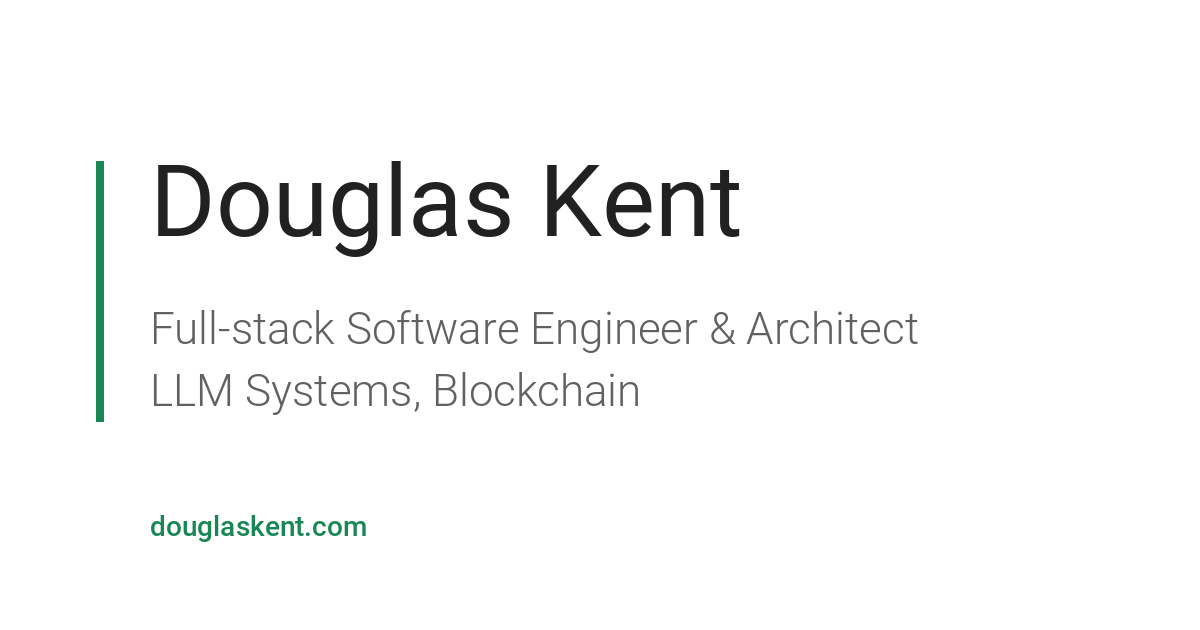
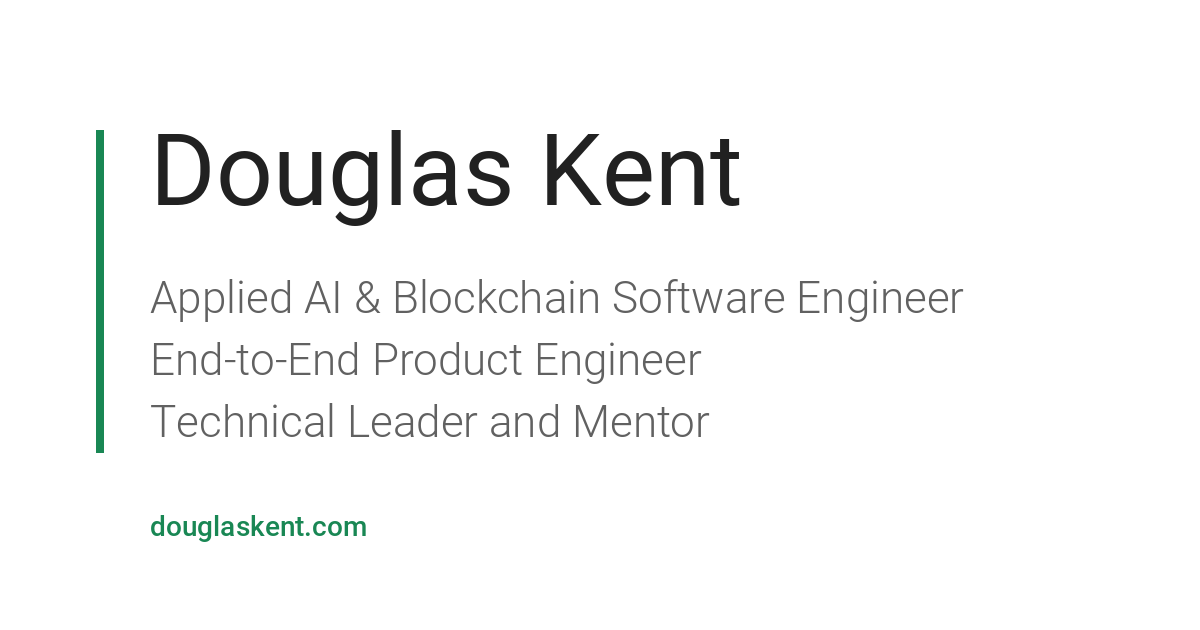
Redraw the link-preview image with the new headline; keep its script
public/og-preview.png now shows the name and all three label phrases,
drawn with the same Pillow script and design as the original card. The
script is kept as og-preview.py, so the card can be redrawn when
basics.name or basics.label changes instead of going stale. It runs by
hand and is not part of the build; its fonts/ folder is gitignored.

diff --git a/og-preview.py b/og-preview.py
@@ -1,0 +1,46 @@
+"""Draws public/og-preview.png, the link-preview image named by basics.image in resume.json.
+
+Run by hand, only when basics.name or basics.label changes: `python og-preview.py`. It is not
+part of the build. The card it replaced went stale because the script that drew it lived only
+in a chat; this one lives with the image.
+
+LABEL_LINES must be updated by hand to match basics.label: one phrase per line, without the
+" · " separators.
+
+Needs Python 3 with Pillow, and the Roboto Light, Regular and Medium TTFs from
+https://raw.githubusercontent.com/googlefonts/roboto-2/main/src/hinted/Roboto-<Weight>.ttf
+placed in a fonts/ folder next to this script (gitignored).
+
+The image must stay 1200 x 630, to match IMAGE_WIDTH and IMAGE_HEIGHT in resume-head-plugin.ts.
+"""
+from pathlib import Path
+
+from PIL import Image, ImageDraw, ImageFont
+
+HERE = Path(__file__).resolve().parent
+W, H = 1200, 630
+WHITE, GREEN, INK, MUTED = "#ffffff", "#198754", "#212121", "#616161"
+NAME = "Douglas Kent"
+LABEL_LINES = ["Applied AI & Blockchain Software Engineer",
+               "End-to-End Product Engineer",
+               "Technical Leader and Mentor"]
+DOMAIN = "douglaskent.com"
+F = str(HERE / "fonts" / "Roboto-%s.ttf")
+name_font = ImageFont.truetype(F % "Regular", 100)
+label_font = ImageFont.truetype(F % "Light", 44)
+domain_font = ImageFont.truetype(F % "Medium", 28)
+BAR_X, BAR_W, TEXT_X = 96, 7, 150
+NAME_GAP, LINE_H = 40, 62
+img = Image.new("RGB", (W, H), WHITE); d = ImageDraw.Draw(img)
+nb = name_font.getbbox(NAME); name_h = nb[3] - nb[1]
+block_h = name_h + NAME_GAP + LINE_H * len(LABEL_LINES)
+block_top = (H - block_h) // 2 - 24
+d.rectangle([BAR_X, block_top, BAR_X + BAR_W, block_top + block_h], fill=GREEN)
+y = block_top
+d.text((TEXT_X, y - nb[1]), NAME, font=name_font, fill=INK); y += name_h + NAME_GAP
+for line in LABEL_LINES:
+    d.text((TEXT_X, y), line, font=label_font, fill=MUTED)
+    print(line, "right edge", TEXT_X + d.textlength(line, font=label_font)); y += LINE_H
+d.text((TEXT_X, H - 96 - 28), DOMAIN, font=domain_font, fill=GREEN)
+print("block", block_top, block_top + block_h)
+img.save(HERE / "public" / "og-preview.png", "PNG", optimize=True)
